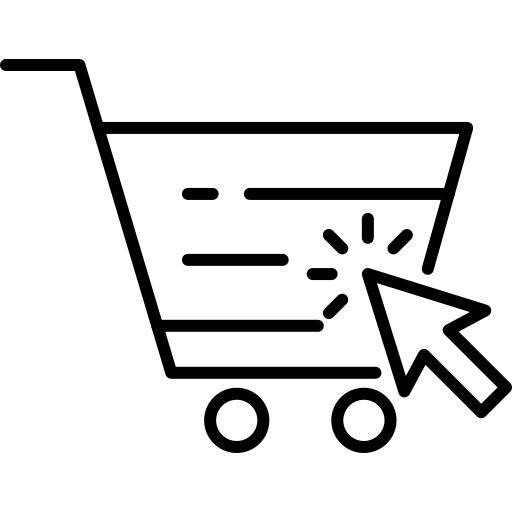
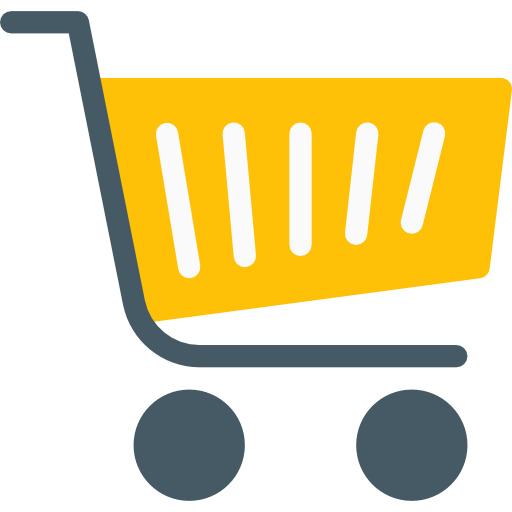
Agrega carro y componente item

diff --git a/src/components/NavBar.jsx b/src/components/NavBar.jsx
@@ -1,32 +1,46 @@
 import logo from '../logo.svg';
+import CartWidget from "./CartWidget";
 import 'bootstrap/dist/css/bootstrap.min.css';
 import '../App.css'
+import ItemListContainer from './ItemListContainer';
 
 
 function NavBar() {
     return (
-
-<header class="fondoGradienteBanner container-fluid position-fixed indexNav">
-    <div class="row">
-        <div class="col-md-2 d-flex align-items-center">
-            <img src={logo} className="App-logo img-fluid tamImgHeader m-1" alt="logo header" />  
-            <a className="nav-link active textBlanco" href="./index.html">MiEcommerce</a>
-        </div>
-        <div className="col-md-8 d-flex align-items-center justify-content-center">
-            <div className="nav justify-content-end">
-                  <a className="nav-link active textBlanco" href="./index.html">Ofertas</a>
-                  <a className="nav-link active textBlanco" href="./index.html">Más Comprados</a>
-                  <a className="nav-link active textBlanco" href="./index.html">En su Mejor Precio</a>
+        <>
+        <header className="fondoGradienteBanner container-fluid indexNav">
+            <div className="row">
+                <div className="col-md-2 d-flex align-items-center">
+                    <img src={logo} className="App-logo img-fluid tamImgHeader m-1" alt="logo header" />  
+                    <a className="nav-link active textBlanco" href="./index.html">MiEcommerce</a>
+                </div>
+                <div className="col-md-6 d-flex align-items-center justify-content-center">
+                    <div className="nav justify-content-end">
+                        <a className="nav-link active textBlanco" href="./index.html">Ofertas</a>
+                        <a className="nav-link active textBlanco" href="./index.html">Más Comprados</a>
+                        <a className="nav-link active textBlanco" href="./index.html">En su Mejor Precio</a>
+                    </div>
+                </div>
+                <div className="col-md-2 d-flex align-items-center justify-content-start">
+                        <CartWidget cantProd={99}/>
+                </div>
+                <div className="col-md-2 d-flex align-items-center justify-content-end text-secondary">
+                    <div className="nav justify-content-end">
+                            <a className="nav-link active textBlanco" href="./login.html">Login</a>
+                    </div>
+                </div>
             </div>
-        </div>
-        <div class="col-md-2 d-flex align-items-center justify-content-end text-secondary">
-            <div className="nav justify-content-end">
-                    <a className="nav-link active textBlanco" href="./login.html">Login</a>
-              </div>
-        </div>
-    </div>
-</header>
+        </header>
+        <body>
+            <div className='container-fluid'>
+                <div className='row'>
+                    <ItemListContainer greeting={'Producto Prueba'}/>
+                </div>
+
+            </div>
+        </body>
+        </>
       );
-  }
-  
-  export default NavBar;
+    }
+    
+    export default NavBar;

diff --git a/src/components/CartWidget.jsx b/src/components/CartWidget.jsx
@@ -1,0 +1,13 @@
+import carrito from "../img/carrito.png";
+
+function CartWidget({cantProd}) {
+    return (
+        <>
+        <img className="img-fluid tamImgCarrito" src={carrito} alt="imagen carrito" />
+       
+        <span className="textBlanco ms-2">{cantProd}</span>
+        </>
+      );
+    }
+    
+    export default CartWidget;

diff --git a/src/index.js b/src/index.js
@@ -3,6 +3,7 @@ import ReactDOM from 'react-dom/client';
 import './index.css';
 import App from './App';
 import reportWebVitals from './reportWebVitals';
+import 'bootstrap/dist/css/bootstrap.min.css';
 
 const root = ReactDOM.createRoot(document.getElementById('root'));
 root.render(

diff --git a/src/App.css b/src/App.css
@@ -8,8 +8,12 @@
 .tamImgHeader {
   width: 4rem; }
 
+.backCar{
+  background-color: red;
+}
+
 .tamImgCarrito {
-    width: 2rem; }
+    width: 2.5rem; }
 
 .fondoGradienteBanner{
   background: linear-gradient(to right, #991cd1, #d4307a);

diff --git a/src/components/ItemListContainer.jsx b/src/components/ItemListContainer.jsx
@@ -1,0 +1,11 @@
+import React from 'react'
+
+function ItemListContainer({greeting}) {
+  return (
+    <>
+    <div className='fs-5 mt-3 text-info'>{greeting}</div>
+    </>
+  )
+}
+
+export default ItemListContainer;
